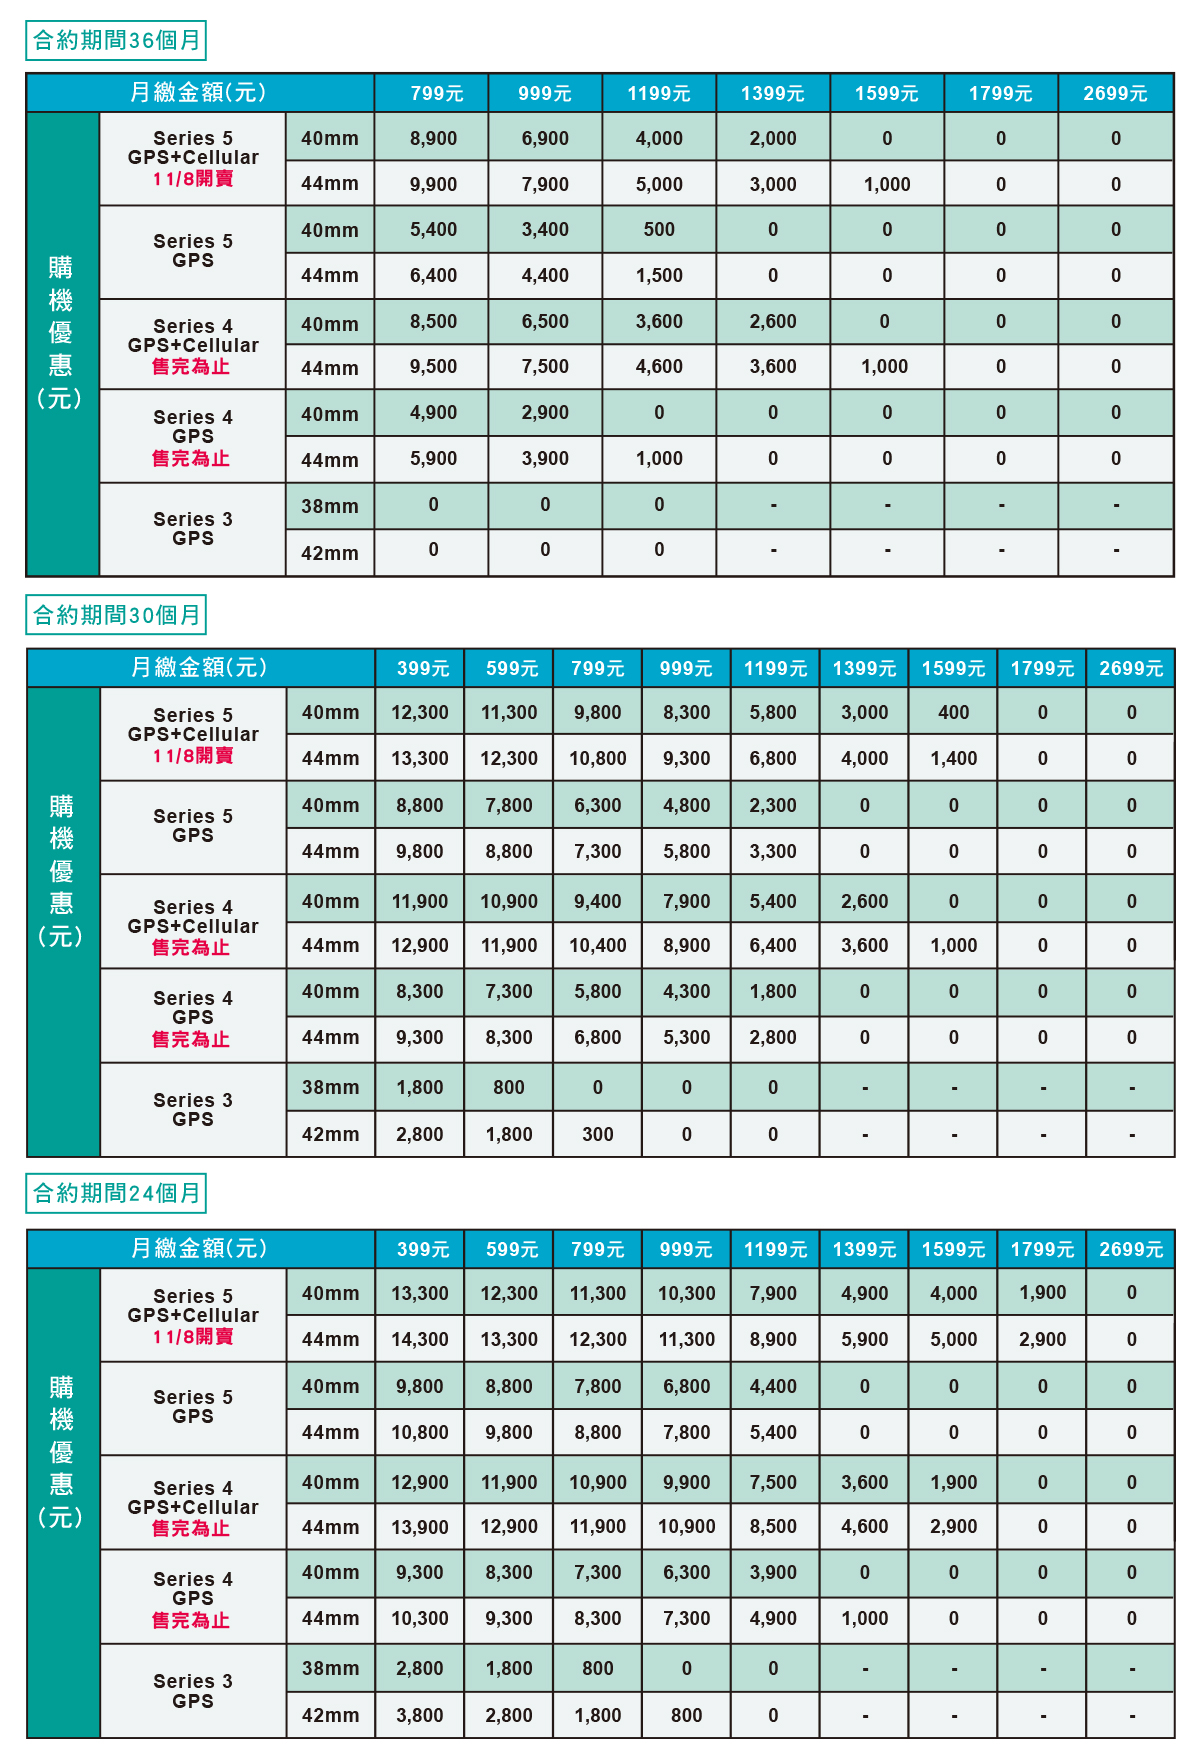
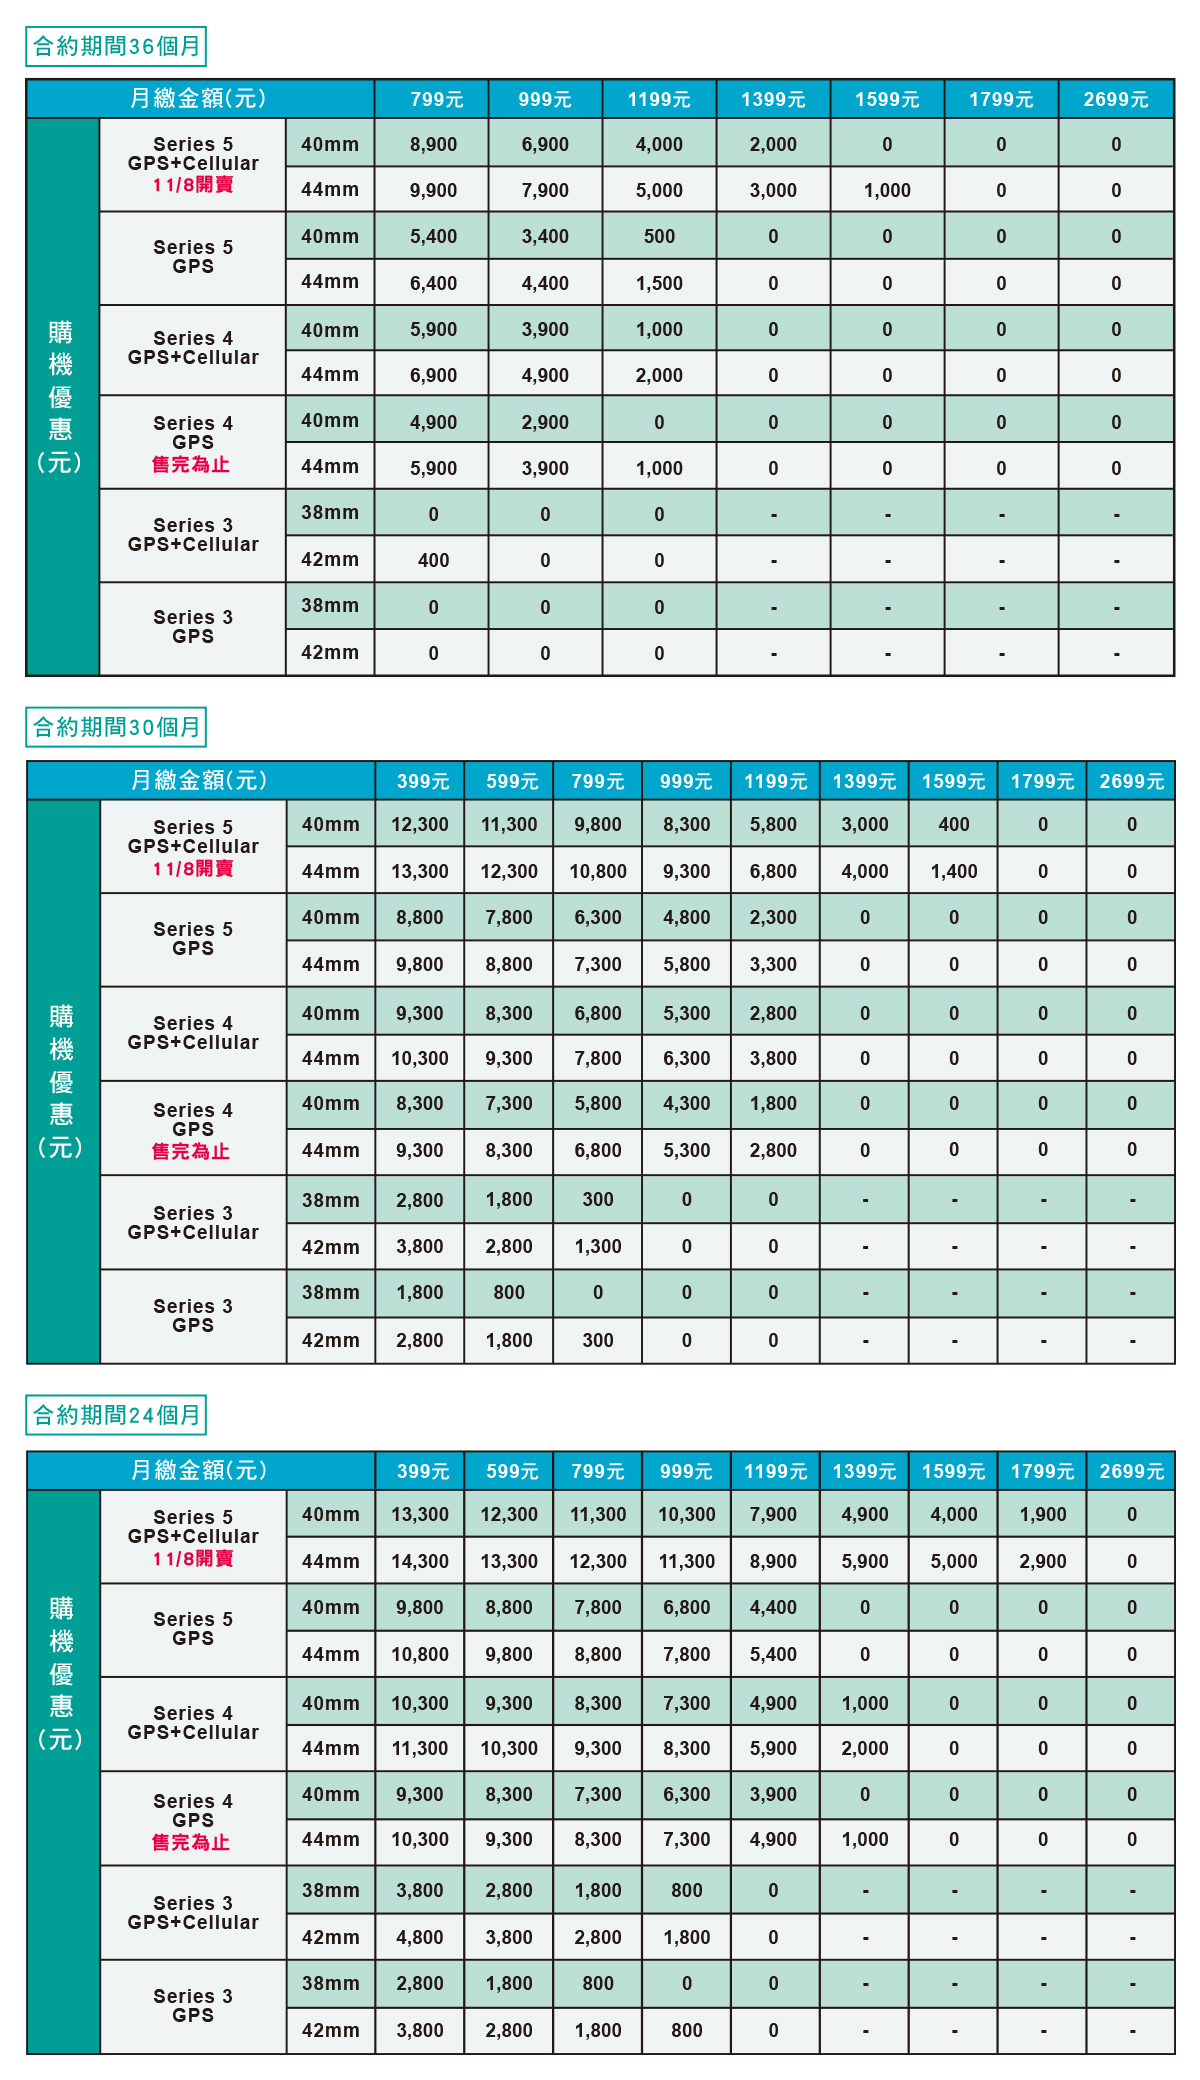
Applw Watch
價格調整
三個方案頁面

diff --git a/demo/Watch/plan_student.html b/demo/Watch/plan_student.html
@@ -154,7 +154,7 @@
                         <th>688元</th>
                     </tr>
                     <tr>
-                        <td rowspan="10">購<br>機<br>優<br>惠<br>(元)</td>
+                        <td rowspan="12">購<br>機<br>優<br>惠<br>(元)</td>
                         <td rowspan="2">Series 5<br>GPS+Cellular<br><span style="color:#ff0000">11/8開賣</span></td>
                         <td>40mm</td>
                         <td>12,900</td>
@@ -181,17 +181,17 @@
                         <td>9,400</td>
                     </tr>
                     <tr>
-                        <td rowspan="2">Series 4<br>GPS+Cellular<br><span style="color:#ff0000">售完為止</span></td>
+                        <td rowspan="2">Series 4<br>GPS+Cellular</td>
                         <td>40mm</td>
-                        <td>12,500</td>
-                        <td>12,500</td>
-                        <td>11,500</td>
+                        <td>9,900</td>
+                        <td>9,900</td>
+                        <td>8,900</td>
                     </tr>
                     <tr>
                         <td>44mm</td>
-                        <td>13,500</td>
-                        <td>13,500</td>
-                        <td>12,500</td>
+                        <td>10,900</td>
+                        <td>10,900</td>
+                        <td>9,900</td>
                     </tr>
                     <tr>
                         <td rowspan="2">Series 4<br>GPS<br><span style="color:#ff0000">售完為止</span></td>
@@ -205,6 +205,19 @@
                         <td>9,900</td>
                         <td>9,900</td>
                         <td>8,900</td>
+                    </tr>
+					<tr>
+                        <td rowspan="2">Series 3<br>GPS+Cellular</td>
+                        <td>38mm</td>
+                        <td>3,400</td>
+                        <td>3,400</td>
+                        <td>2,400</td>
+                    </tr>
+                    <tr>
+                        <td>42mm</td>
+                        <td>4,400</td>
+                        <td>4,400</td>
+                        <td>3,400</td>
                     </tr>
                     <tr>
                         <td rowspan="2">Series 3<br>GPS</td>

diff --git a/demo/Watch/purchase.html b/demo/Watch/purchase.html
@@ -158,15 +158,15 @@
                         <td><span style="color:#ff0000;">13,900</span></td>
                     </tr>
 					<tr>
-						<td rowspan="2">Series 4<br>GPS+Cellular<br><span style="color:#ff0000">售完為止</span></td>
+						<td rowspan="2">Series 4<br>GPS+Cellular</td>
 						<td>40mm</td>
-                        <td>16,500</td>
-						<td><span style="color:#ff0000;">16,000</span></td>
+                        <td>13,900</td>
+						<td><span style="color:#ff0000;">13,400</span></td>
 					</tr>
 					<tr>
 						<td>44mm</td>
-                        <td>17,500</td>
-						<td><span style="color:#ff0000;">17,000</span></td>
+                        <td>14,900</td>
+						<td><span style="color:#ff0000;">14,400</span></td>
 					</tr>
 					<tr>
 						<td rowspan="2">Series 4<br>GPS<br><span style="color:#ff0000">售完為止</span></td>
@@ -178,6 +178,17 @@
                         <td>44mm</td>
                         <td>13,900</td>
                         <td><span style="color:#ff0000;">13,400</span></td>
+                    </tr>
+					<tr>
+                        <td rowspan="2">Series 3<br>GPS+Cellular</td>
+                        <td>38mm</td>
+                        <td>8,900</td>
+                        <td>8,400</td>
+                    </tr>
+                    <tr>
+                        <td>42mm</td>
+                        <td>9,900</td>
+                        <td>9,400</td>
                     </tr>
                     <tr>
                         <td rowspan="2">Series 3<br>GPS</td>

diff --git a/demo/Watch/plan_699.html b/demo/Watch/plan_699.html
@@ -159,7 +159,7 @@
 						<th>699元</th>
 					</tr>
 					<tr>
-						<td rowspan="10">購<br>機<br>優<br>惠<br>(元)</td>
+						<td rowspan="12">購<br>機<br>優<br>惠<br>(元)</td>
 						<td rowspan="2">Series 5<br>GPS+Cellular<br><span style="color:#ff0000">11/8開賣</span></td>
 						<td>40mm</td>
                         <td>12,300</td>
@@ -178,13 +178,13 @@
                         <td>9,800</td>
                     </tr>
                     <tr>
-                        <td rowspan="2">Series 4<br>GPS+Cellular<br><span style="color:#ff0000">售完為止</span></td>
+                        <td rowspan="2">Series 4<br>GPS+Cellular</td>
                         <td>40mm</td>
-                        <td>11,900</td>
+                        <td>9,300</td>
                     </tr>
 					<tr>
 						<td>44mm</td>
-						<td>12,900</td>
+						<td>10,300</td>
 					</tr>
 					<tr>
 						<td rowspan="2">Series 4<br>GPS<br><span style="color:#ff0000">售完為止</span></td>
@@ -195,6 +195,15 @@
 						<td>44mm</td>
                         <td>9,300</td>
 					</tr>
+					<tr>
+                        <td rowspan="2">Series 3<br>GPS+Cellular</td>
+                        <td>38mm</td>
+                        <td>2,800</td>
+                    </tr>
+                    <tr>
+                        <td>42mm</td>
+                        <td>3,800</td>
+                    </tr>
                     <tr>
                         <td rowspan="2">Series 3<br>GPS</td>
                         <td>38mm</td>
